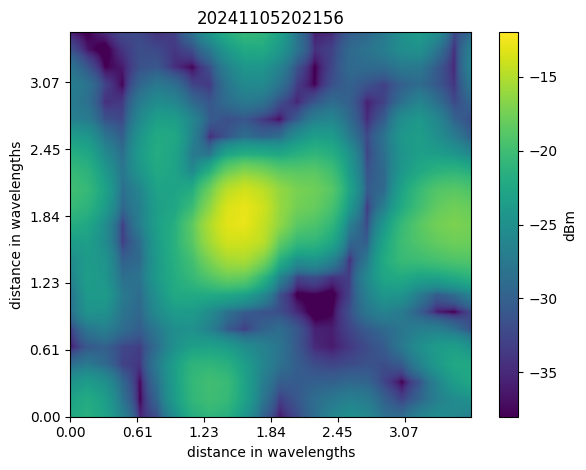
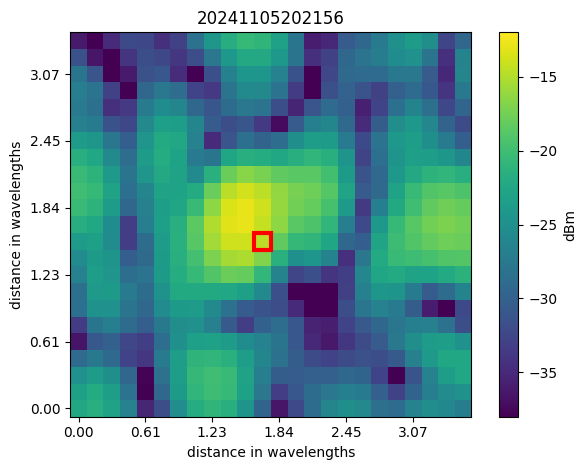
update figs

diff --git a/03_geometry_based_beamforming/031_Friis/processing/plot_2d.py b/03_geometry_based_beamforming/031_Friis/processing/plot_2d.py
@@ -13,7 +13,7 @@ from scipy.ndimage import zoom
 #     "bf-ceiling-2",
 #     "bf-ceiling-3"]
 
-to_plot = ["20241106101220"]  # "bf-ceiling-grid",
+to_plot = ["20241106115848"]  # "bf-ceiling-grid",
 
 log_heatmap = np.zeros(len(to_plot)).tolist()
 
@@ -47,15 +47,15 @@ for i, tp in enumerate(to_plot):
                 x_bf = i_x
                 y_bf = i_y
 
-    zoom_val = 50
+    zoom_val = 1
 
     fig, ax = plt.subplots()
     plt.title(tp)
     upsampled_heatmap = zoom(heatmap, zoom=zoom_val, order=1)
     plt.imshow(
-        10 * np.log10(upsampled_heatmap) + 10,  # + 10 to account for the cable loss
-        # vmin=-48,
-        # vmax=None,
+        10 * np.log10(upsampled_heatmap) + 10,  # + 10 to account for 
+        vmin=-48 + 10,
+        vmax=-22 + 10,
         cmap="viridis",
         origin="lower",
     )
@@ -67,7 +67,7 @@ for i, tp in enumerate(to_plot):
         zoom_val * np.arange(len(yi))[::4],
         labels=[f"{(y-yi[0])/wavelen:.2f}" for y in yi][::4],
     )
-    # ax.add_patch(Rectangle((y_bf-0.5, x_bf-0.5), 1, 1, fill=False, edgecolor="red", lw=3))
+    ax.add_patch(Rectangle((y_bf-0.5, x_bf-0.5), 1, 1, fill=False, edgecolor="red", lw=3))
     plt.colorbar(label="dBm")
     # cbar.ax.set_ylabel("dBm")
     plt.xlabel("distance in wavelengths")
@@ -80,7 +80,7 @@ for i, tp in enumerate(to_plot):
     plt.title(tp)
     upsampled_heatmap = zoom(heatmap, zoom=zoom_val, order=1)
     p = ax.imshow(
-        upsampled_heatmap * 1000 * 10, cmap="viridis", origin="lower"
+        upsampled_heatmap * 1000 * 10, vmin=0.001, vmax=80, cmap="viridis", origin="lower"
     )  # * 10 to account for the cable loss
     ax.set_xticks(
         zoom_val * np.arange(len(xi))[::4],
@@ -90,16 +90,16 @@ for i, tp in enumerate(to_plot):
         zoom_val * np.arange(len(yi))[::4],
         labels=[f"{(y-yi[0])/wavelen:.2f}" for y in yi][::4],
     )
-    # ax.add_patch(
-    #     Rectangle((y_bf - 0.5, x_bf - 0.5), 1, 1, fill=False, edgecolor="red", lw=3)
-    # )
+    ax.add_patch(
+        Rectangle((y_bf - 0.5, x_bf - 0.5), 1, 1, fill=False, edgecolor="red", lw=3)
+    )
     cbar = fig.colorbar(p)
     cbar.ax.set_ylabel("uW")
     ax.set_xlabel("distance in wavelengths")
     ax.set_ylabel("distance in wavelengths")
     fig.tight_layout()
     plt.savefig(f"../results/{tp}/heatmap-uW.png", bbox_inches="tight")
-    # plt.show()
+    plt.show()
 
 
 # fig, ax = plt.subplots()

diff --git a/02_reciprocity_based_WPT/processing/plot_2d.py b/02_reciprocity_based_WPT/processing/plot_2d.py
@@ -45,7 +45,7 @@ for i, tp in enumerate(to_plot):
                 x_bf = i_x
                 y_bf = i_y
 
-    zoom_val = 50
+    zoom_val = 1
 
     fig, ax = plt.subplots()
     plt.title(tp)
@@ -65,19 +65,19 @@ for i, tp in enumerate(to_plot):
         zoom_val * np.arange(len(yi))[::4],
         labels=[f"{(y-yi[0])/wavelen:.2f}" for y in yi][::4],
     )
-    # ax.add_patch(Rectangle((y_bf-0.5, x_bf-0.5), 1, 1, fill=False, edgecolor="red", lw=3))
+    ax.add_patch(Rectangle((y_bf-0.5, x_bf-0.5), 1, 1, fill=False, edgecolor="red", lw=3))
     plt.colorbar(label="dBm")
     # cbar.ax.set_ylabel("dBm")
     plt.xlabel("distance in wavelengths")
     plt.ylabel("distance in wavelengths")
     fig.tight_layout()
     plt.savefig(f"../results/{tp}/heatmap-dBm.png", bbox_inches="tight")
-    plt.show()
+    # plt.show()
 
     fig, ax = plt.subplots()
     plt.title(tp)
     upsampled_heatmap = zoom(heatmap, zoom=zoom_val, order=1)
-    p = ax.imshow(upsampled_heatmap * 1000 * 10, vmin=0.001,  cmap="viridis", origin="lower") # * 10 to account for the cable loss
+    p = ax.imshow(upsampled_heatmap * 1000 * 10, vmax=80, vmin=0.001,  cmap="viridis", origin="lower") # * 10 to account for the cable loss
     ax.set_xticks(
         zoom_val * np.arange(len(xi))[::4],
         labels=[f"{(x-xi[0])/wavelen:.2f}" for x in xi][::4],
@@ -86,9 +86,9 @@ for i, tp in enumerate(to_plot):
         zoom_val * np.arange(len(yi))[::4],
         labels=[f"{(y-yi[0])/wavelen:.2f}" for y in yi][::4],
     )
-    # ax.add_patch(
-    #     Rectangle((y_bf - 0.5, x_bf - 0.5), 1, 1, fill=False, edgecolor="red", lw=3)
-    # )
+    ax.add_patch(
+        Rectangle((y_bf - 0.5, x_bf - 0.5), 1, 1, fill=False, edgecolor="red", lw=3)
+    )
     cbar = fig.colorbar(p)
     cbar.ax.set_ylabel("uW")
     ax.set_xlabel("distance in wavelengths")
@@ -96,7 +96,7 @@ for i, tp in enumerate(to_plot):
     fig.tight_layout()
 
     plt.savefig(f"../results/{tp}/heatmap-uW.png", bbox_inches="tight")
-    # plt.show()
+    plt.show()
 
 
 # fig, ax = plt.subplots()

diff --git a/03_geometry_based_beamforming/031_Friis/processing/beamform.py b/03_geometry_based_beamforming/031_Friis/processing/beamform.py
@@ -134,13 +134,13 @@ print("Done.")
 # Compute path gain at EN device
 raEN = np.tile(p_EN.reshape(3, 1), (1, L)) - P_array
 daEN = np.linalg.norm(raEN, axis=0)
-hEN = lambda_ / (np.sqrt(4 * np.pi) * daEN) * np.exp(-1j * 2 * np.pi / lambda_ * daEN)
+hEN = lambda_ / (4 * np.pi * daEN) * np.exp(-1j * 2 * np.pi / lambda_ * daEN)
 y_EN = np.dot(w.T, hEN)
 PG_EN = 10 * np.log10(np.abs(y_EN) ** 2)
 print(f"Path Gain at UE is {PG_EN:.2f} dB")
 
 # Plot scenario
-plt.figure(figsize=(8, 5))
+plt.figure()
 PG_dB = 10 * np.log10(np.abs(y) ** 2)
 plt.imshow(PG_dB+3.6, extent=[X_MIN, X_MAX, Y_MIN, Y_MAX], origin="upper", aspect="auto")
 # plt.plot(p_EN[0], p_EN[1], "bo", markersize=10)
@@ -171,13 +171,13 @@ plt.savefig(f"../results/ideal/heatmap-dBm.png", bbox_inches="tight")
 plt.show()
 
 
-plt.figure(figsize=(8, 5))
+plt.figure()
 PG_dB = 10 * np.log10(np.abs(y) ** 2)
 plt.imshow(
     10**((PG_dB + 3.6)/10)*1000, extent=[X_MIN, X_MAX, Y_MIN, Y_MAX], origin="upper", aspect="auto"
 )
 # plt.plot(p_EN[0], p_EN[1], "bo", markersize=10)
-plt.colorbar(label="PG in nW")
+plt.colorbar(label="Rx power in uW")
 
 
 # Add rectangle around specified position
@@ -200,5 +200,5 @@ plt.clim(0.001, None)
 plt.title("Friis [tx 3.6dBm]")
 # plt.grid(True)
 plt.tight_layout()
-plt.savefig(f"../results/ideal/heatmap-nW.png", bbox_inches="tight")
+plt.savefig(f"../results/ideal/heatmap-uW.png", bbox_inches="tight")
 plt.show()
